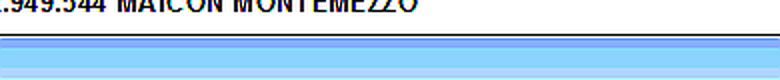
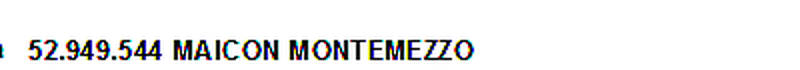
Add Tesseract timeout protection and file-based logging for better debugging

diff --git a/src/vision.py b/src/vision.py
@@ -5,6 +5,9 @@ from hashlib import sha1
 from pathlib import Path
 from PIL import Image, ImageEnhance, ImageFilter
 import logging
+import subprocess
+import tempfile
+import sys
 
 try:
     import pytesseract
@@ -74,22 +77,45 @@ def ocr_image(image: Image.Image, tesseract_cmd: str | None = None, debug_path: 
         processed_image.save(debug_path)
         LOGGER.info(f"💾 Saved debug image: {debug_path}")
     
-    # Tenta OCR em português com dados de confiança
+    # Tenta OCR em português com timeout
     try:
-        LOGGER.info("📖 Running Tesseract OCR with lang=por...")
-        text = pytesseract.image_to_string(processed_image, lang="por")
-        LOGGER.info(f"📝 Raw OCR text: '{text}'")
+        LOGGER.info("📖 Running Tesseract OCR with lang=por... (timeout: 10 segundos)")
         
-        data = pytesseract.image_to_data(processed_image, lang="por", output_type="dict")
+        # Salva temporariamente a imagem processada para OCR
+        with tempfile.NamedTemporaryFile(suffix=".png", delete=False) as tmp:
+            tmp_path = tmp.name
+            processed_image.save(tmp_path)
         
-        # Calcula confiança média
-        confidences = [int(conf) for conf in data["conf"] if int(conf) > 0]
-        confidence = sum(confidences) / len(confidences) if confidences else 0
+        try:
+            # Tenta com timeout de 10 segundos
+            LOGGER.info(f"   Tesseract command: {tesseract_cmd or 'default'}")
+            text = pytesseract.image_to_string(processed_image, lang="por", timeout=10)
+            LOGGER.info(f"📝 Raw OCR text: '{text}'")
+            
+            # Tenta pegar dados de confiança
+            try:
+                data = pytesseract.image_to_data(processed_image, lang="por", output_type="dict", timeout=10)
+                confidences = [int(conf) for conf in data["conf"] if int(conf) > 0]
+                confidence = sum(confidences) / len(confidences) if confidences else 0
+            except Exception as conf_err:
+                LOGGER.warning(f"⚠  Não conseguiu calcular confiança: {conf_err}")
+                confidence = 0
+            
+            extracted_text = normalize_text(text)
+            LOGGER.info(f"✅ OCR Success - Text: '{extracted_text}' | Confidence: {confidence:.1f}%")
+            
+            return VisionResult(text=extracted_text, confidence=confidence)
         
-        extracted_text = normalize_text(text)
-        LOGGER.info(f"✅ OCR Success - Text: '{extracted_text}' | Confidence: {confidence:.1f}%")
-        
-        return VisionResult(text=extracted_text, confidence=confidence)
+        finally:
+            # Limpa arquivo temporário
+            try:
+                Path(tmp_path).unlink(missing_ok=True)
+            except:
+                pass
+    
+    except subprocess.TimeoutExpired:
+        LOGGER.error("❌ Tesseract TIMEOUT - tomou mais de 10 segundos (pode estar travado)")
+        raise RuntimeError("Tesseract timeout - try manually entering name")
     except Exception as e:
         LOGGER.error(f"❌ Tesseract OCR error: {e}", exc_info=True)
         raise

diff --git a/src/automation.py b/src/automation.py
@@ -154,7 +154,7 @@ class MercosAutomation:
             # Salva screenshot de debug
             debug_path = self.output_dir / f"debug_ocr_{self._processed + 1:04d}.png"
             
-            LOGGER.info(f"🔍 Executando OCR (Tesseract: {self.config.tesseract_cmd or 'padrão'})")
+            LOGGER.info(f"🔍 Iniciando OCR (Tesseract: {self.config.tesseract_cmd or 'padrão'})...")
             result = ocr_image(screenshot, tesseract_cmd=self.config.tesseract_cmd, debug_path=debug_path)
             
             LOGGER.info(f"📊 OCR Result - Confidence: {result.confidence:.1f}% | Text: '{result.text}'")
@@ -165,8 +165,17 @@ class MercosAutomation:
                 LOGGER.info(f"✅ OCR SUCCESS (confidence={result.confidence:.1f}%): '{extracted}'")
                 return extracted
             else:
-                LOGGER.warning(f"⚠  OCR Confidence too low ({result.confidence:.1f}% < 20%)")
+                confidence_val = result.confidence if result.confidence else 0
+                LOGGER.warning(f"⚠  OCR Confidence too low ({confidence_val:.1f}% < 20%)")
                 LOGGER.warning(f"⚠  OCR Text: '{result.text}'")
+        
+        except RuntimeError as e:
+            # Timeout ou erro crítico do Tesseract
+            if "timeout" in str(e).lower():
+                LOGGER.error(f"❌ TESSERACT TIMEOUT: {e}")
+                LOGGER.error("⚠  Tesseract está demorando muito. Isso pode ser um problema de instalação.")
+            else:
+                LOGGER.error(f"❌ OCR Runtime Error: {e}", exc_info=True)
         except Exception as exc:  # pragma: no cover - runtime fallback
             LOGGER.error(f"❌ OCR Exception: {exc}", exc_info=True)
 

diff --git a/src/main.py b/src/main.py
@@ -3,6 +3,7 @@ from __future__ import annotations
 from argparse import ArgumentParser
 from pathlib import Path
 import logging
+import sys
 
 from .automation import MercosAutomation, load_automation_config
 from .config import default_config_path
@@ -19,7 +20,32 @@ def build_parser() -> ArgumentParser:
 
 def main() -> int:
     args = build_parser().parse_args()
-    logging.basicConfig(level=getattr(logging, args.log_level.upper(), logging.INFO), format="%(asctime)s %(levelname)s %(name)s: %(message)s")
+    
+    # Configura logging com console E arquivo
+    output_dir = Path(args.output_dir)
+    output_dir.mkdir(parents=True, exist_ok=True)
+    log_file = output_dir / "automation.log"
+    
+    # Cria formatter
+    formatter = logging.Formatter("%(asctime)s | %(levelname)-8s | %(name)s: %(message)s")
+    
+    # Configura root logger
+    root_logger = logging.getLogger()
+    root_logger.setLevel(getattr(logging, args.log_level.upper(), logging.INFO))
+    
+    # Handler para console
+    console_handler = logging.StreamHandler(sys.stdout)
+    console_handler.setFormatter(formatter)
+    root_logger.addHandler(console_handler)
+    
+    # Handler para arquivo
+    try:
+        file_handler = logging.FileHandler(log_file, mode="w", encoding="utf-8")
+        file_handler.setFormatter(formatter)
+        root_logger.addHandler(file_handler)
+        print(f"📁 Logs salvos em: {log_file}")
+    except Exception as e:
+        print(f"⚠  Erro ao criar arquivo de log: {e}")
 
     config_path = Path(args.config)
     config = load_automation_config(config_path)
